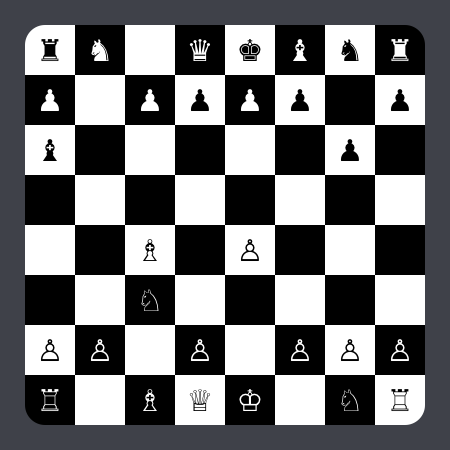
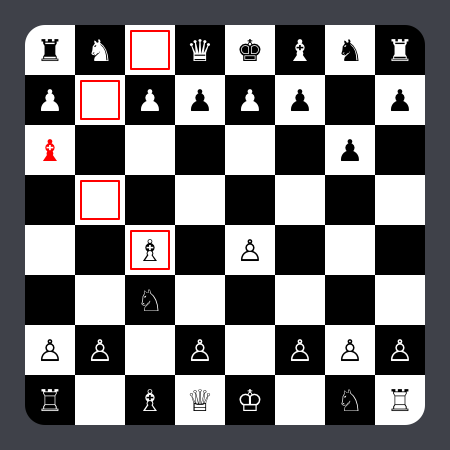
add show available

diff --git a/Gameboards.playground/Sources/Boards/Chess.swift b/Gameboards.playground/Sources/Boards/Chess.swift
@@ -58,20 +58,20 @@ public struct Chess {
         
     }
     
-    public static func validateMove(s1: Square, _ s2: Square, _ p1: Piece, _ p2: Piece, _ grid: Grid) throws {
+    public static func validateMove(s1: Square, _ s2: Square, _ p1: Piece, _ p2: Piece, _ grid: Grid, _ hint: Bool = false) throws {
         
         let mRow = s2.0 - s1.0
         let mCol = s2.1 - s1.1
         
-        let d1 = mRow == 0 ? 0 : mRow > 0 ? 1 : -1
-        let d2 = mCol == 0 ? 0 : mCol > 0 ? 1 : -1
+//        let dR = mRow == 0 ? 0 : mRow > 0 ? 1 : -1
+//        let dC = mCol == 0 ? 0 : mCol > 0 ? 1 : -1
         
         switch PieceType(rawValue: p1) ?? .None {
             
         case .Bishop1, .Bishop2:
             
-            try validateEmptyPath(s1, s2, grid)
             guard abs(mRow) == abs(mCol) else { throw MoveError.InvalidMove }
+            try validateEmptyPath(s1, s2, grid)
             
         case .King1, .King2:
             
@@ -79,34 +79,35 @@ public struct Chess {
             
         case .Knight1, .Knight2:
             
-            guard let piece = grid[s1.0 + d1,s1.1 + d2] as? Piece where piece == "" else { throw MoveError.BlockedMove }
             guard (abs(mRow) == 2 && abs(mCol) == 1) || (abs(mRow) == 1 && abs(mCol) == 2) else { throw MoveError.InvalidMove }
             
         case .Pawn1:
             
-            try validateEmptyPath(s1, s2, grid)
             guard abs(mCol) == 0 || (abs(mCol) == 1 && mRow == 1 && p2 != "") else { throw MoveError.InvalidMove }
-            guard mRow < 2 || (s1.0 == 1 && mRow == 2) else { throw MoveError.InvalidMove }
+            guard (mRow < 2 && mRow > 0) || (s1.0 == 1 && mRow == 2) else { throw MoveError.InvalidMove }
+            try validateEmptyPath(s1, s2, grid)
             
         case .Pawn2:
             
-            try validateEmptyPath(s1, s2, grid)
             guard abs(mCol) == 0 || (abs(mCol) == 1 && mRow == -1 && p2 != "") else { throw MoveError.InvalidMove }
-            guard mRow > -2 || (s1.0 == 6 && mRow == -2) else { throw MoveError.InvalidMove }
+            guard (mRow > -2 && mRow < 0) || (s1.0 == 6 && mRow == -2) else { throw MoveError.InvalidMove }
+            try validateEmptyPath(s1, s2, grid)
             
         case .Queen1, .Queen2:
             
-            try validateEmptyPath(s1, s2, grid)
             guard mRow == 0 || mCol == 0 || abs(mRow) == abs(mCol) else { throw MoveError.InvalidMove }
+            try validateEmptyPath(s1, s2, grid)
             
         case .Rook1, .Rook2:
             
-            try validateEmptyPath(s1, s2, grid)
             guard mRow == 0 || mCol == 0 else { throw MoveError.InvalidMove }
+            try validateEmptyPath(s1, s2, grid)
             
         case .None: throw MoveError.IncorrectPiece
             
         }
+        
+        guard !hint else { return }
         
         grid[s2.0,s2.1] = p1 // place my piece in target square
         grid[s1.0,s1.1] = "" // remove my piece from original square

diff --git a/Gameboards.playground/Sources/Core/Grid.swift b/Gameboards.playground/Sources/Core/Grid.swift
@@ -5,7 +5,7 @@ public class Grid {
     public var content: [[AnyObject]]
     
     public var rowRange: Range<Int> { return 0..<content.count }
-    public var colRange: Range<Int> { return 0..<content[0].count }
+    public var colRange: Range<Int> { return content.count > 0 ? 0..<content[0].count : 0..<0 }
     
     public init(_ content: [[AnyObject]]) {
         
@@ -27,27 +27,17 @@ public class Grid {
             
             for (c,item) in row.enumerate() {
                 
-                let label = UILabel(frame: CGRect(x: c * w, y: r * h, width: w, height: h))
+                let label = HintLabel(frame: CGRect(x: c * w, y: r * h, width: w, height: h))
                 
                 label.backgroundColor = (c + r) % 2 == 0 ? UIColor.whiteColor() : UIColor.blackColor()
                 label.textColor = (c + r) % 2 == 0 ? UIColor.blackColor() : UIColor.whiteColor()
                 
+                if let selected = selected where selected.0 == r && selected.1 == c { label.textColor = UIColor.redColor() }
+                for highlight in highlights { label.highlight = label.highlight ? true : highlight.0 == r && highlight.1 == c }
+                
                 label.text = "\(item)"
                 label.textAlignment = .Center
                 label.font = UIFont(name: "HelveticaNeue-Thin", size: (w + h) / 2 - 10)
-                
-                for highlight in highlights {
-                    
-                    guard highlight.0 == r && highlight.1 == c else { continue }
-                    label.backgroundColor = UIColor.magentaColor()
-                    
-                }
-                
-                if let selected = selected where selected.0 == r && selected.1 == c {
-                    
-                    label.backgroundColor = UIColor.cyanColor()
-                
-                }
                 
                 view.addSubview(label)
                 

diff --git a/Gameboards.playground/Sources/Boards/Checkers.swift b/Gameboards.playground/Sources/Boards/Checkers.swift
@@ -19,7 +19,7 @@ public struct Checkers {
     
     public static let playerPieces = ["◎","◉"]
     
-    public static func validateJump(s1: Square, _ s2: Square, _ p1: Piece, _ p2: Piece, _ grid: Grid) -> Bool {
+    public static func validateJump(s1: Square, _ s2: Square, _ p1: Piece, _ p2: Piece, _ grid: Grid, _ hint: Bool = false) -> Bool {
         
         let m1 = s2.0 - s1.0
         let m2 = s2.1 - s1.1
@@ -32,19 +32,23 @@ public struct Checkers {
         guard let piece2 = grid[e1,e2] as? String else { return false }
         guard piece2 != "" && piece1 != piece2 else { return false }
         
+        guard !hint else { return true }
+        
         grid[e1,e2] = "" // remove other player piece
         
         return true
         
     }
     
-    public static func validateMove(s1: Square, _ s2: Square, _ p1: Piece, _ p2: Piece, _ grid: Grid) throws {
+    public static func validateMove(s1: Square, _ s2: Square, _ p1: Piece, _ p2: Piece, _ grid: Grid, _ hint: Bool = false) throws {
         
         let m1 = s2.0 - s1.0
         let m2 = s2.1 - s1.1
         
         guard p2 == "" else { throw MoveError.InvalidMove }
-        guard (abs(m1) == 1 && abs(m2) == 1) || validateJump(s1, s2, p1, p2, grid) else { throw MoveError.InvalidMove }
+        guard (abs(m1) == 1 && abs(m2) == 1) || validateJump(s1, s2, p1, p2, grid, hint) else { throw MoveError.InvalidMove }
+        
+        guard !hint else { return }
         
         grid[s2.0,s2.1] = p1 // place my piece in target square
         grid[s1.0,s1.1] = "" // remove my piece from original square

diff --git a/Gameboards.playground/Sources/Helper.swift b/Gameboards.playground/Sources/Helper.swift
@@ -2,19 +2,35 @@ import UIKit
 
 extension Gameboard {
     
-    
-    public func showAvailable(s1: Square) {
+    public mutating func showAvailable(s1: Square) {
         
-//        switch _type {
-//            
-//        case .Checkers:
-//        case .Chess:
-//            
-//        }
+        highlights = []
+        
+        switch _type {
+            
+        case .Backgammon, .Go, .Mancala, .Minesweeper, .Sudoku, .TicTacToe: break
+            
+        case .Chess, .Checkers:
+            
+            selected = s1
+            
+            for r in grid.rowRange {
+                
+                for c in grid.colRange {
+                    
+                    guard let _ = try? validateMove(s1, (r,c), true) else { continue }
+                    print((r,c))
+                    highlights.append((r,c))
+                    
+                }
+                
+            }
+            
+        }
         
     }
     
-    public func showAvailable(s1: ChessSquare) {
+    public mutating func showAvailable(s1: ChessSquare) {
         
         let cols: [String] = "abcdefgh".characters.map { "\($0)" }
         guard let c1 = cols.indexOf(s1.0) else { return }

diff --git a/Gameboards.playground/Sources/Validation.swift b/Gameboards.playground/Sources/Validation.swift
@@ -34,6 +34,13 @@ public enum GameStatus: ErrorType {
     
 }
 
+public enum FunctionalityError: ErrorType {
+    
+    /// Can't do this... maybe a future feature if you bug me enough.
+    case Unavailable
+    
+}
+
 extension Gameboard {
     
     func validateNotFriendlyFire(p1: Piece, _ p2: Piece) throws -> Bool {
@@ -125,7 +132,7 @@ extension Gameboard {
         
     }
     
-    func validateMove(s1: Square, _ s2: Square) throws {
+    func validateMove(s1: Square, _ s2: Square, _ hint: Bool = false) throws {
         
         guard grid.onBoard(s1, s2) else { throw MoveError.OutOfBounds }
         
@@ -137,8 +144,8 @@ extension Gameboard {
         
         switch _type {
             
-        case .Checkers: try Checkers.validateMove(s1, s2, p1, p2, grid)
-        case .Chess: try Chess.validateMove(s1, s2, p1, p2, grid)
+        case .Checkers: try Checkers.validateMove(s1, s2, p1, p2, grid, hint)
+        case .Chess: try Chess.validateMove(s1, s2, p1, p2, grid, hint)
         case .Backgammon, .Go, .Mancala, .Minesweeper, .Sudoku, .TicTacToe: throw MoveError.IncorrectPiece
             
         }

diff --git a/Gameboards.playground/Sources/Core/Views/HintLabel.swift b/Gameboards.playground/Sources/Core/Views/HintLabel.swift
@@ -1,0 +1,25 @@
+import UIKit
+
+class HintLabel: UILabel {
+    
+    var highlight: Bool = false { didSet { setNeedsDisplay() } }
+    
+    override func drawTextInRect(rect: CGRect) {
+        
+        guard highlight else { return super.drawTextInRect(rect) }
+        
+        let ctx = UIGraphicsGetCurrentContext()
+        
+        UIColor.redColor().set()
+        
+        CGContextSetLineJoin(ctx, .Round)
+        CGContextSetLineWidth(ctx, 1)
+        
+        CGContextStrokeRect(ctx, CGRectInset(rect, 3, 3))
+        
+        super.drawTextInRect(rect)
+        
+    }
+    
+}
+

diff --git a/Gameboards.playground/Sources/Gameboard.swift b/Gameboards.playground/Sources/Gameboard.swift
@@ -55,7 +55,7 @@ public struct Gameboard {
     
     public mutating func move(pieceAt s1: Square, toSquare s2: Square) throws -> Piece? {
         
-        try validateMove(s1, s2)
+        try validateMove(s1,s2)
         
         let piece2 = grid[s2.0,s2.1]
         
@@ -101,7 +101,10 @@ public struct Gameboard {
             grid = Chess.board
             playerPieces = Chess.playerPieces
             
-        case .Go: break
+        case .Go:
+            
+            grid = Go.board
+            playerPieces = Go.playerPieces
             
         case .Mancala: break
             

diff --git a/Gameboards.playground/Sources/Boards/Go.swift b/Gameboards.playground/Sources/Boards/Go.swift
@@ -6,10 +6,13 @@ public struct Go {
     
     public static let playerPieces = ["●1","●2"]
     
-    public static func validateMove(s1: Square, _ grid: Grid) throws {
+    public static func validateMove(s1: Square, _ grid: Grid, _ player1: Bool) throws {
+        
+        // validate if playable
         
         // current player
-//        grid[s1.0,s1.1] = // place my piece in target square
+        let player = player1 ? 0 : 1
+        grid[s1.0,s1.1] = playerPieces[player]
         
     }
     

diff --git a/Gameboards.playground/Sources/Boards/Sudoku.swift b/Gameboards.playground/Sources/Boards/Sudoku.swift
@@ -66,9 +66,9 @@ public struct Sudoku {
         
         let newGrid = Grid(9 ✕ (9 ✕ ""))
         
-        for r in 0...8 {
+        for r in newGrid.rowRange {
             
-            for c in 0...8 {
+            for c in newGrid.colRange {
                 
                 newGrid[c,r] = grid[r,c]
                 

diff --git a/Gameboards.playground/Pages/Chess.xcplaygroundpage/Contents.swift b/Gameboards.playground/Pages/Chess.xcplaygroundpage/Contents.swift
@@ -16,6 +16,7 @@ let moves: [(ChessSquare,ChessSquare)] = [
     (F1,C4), // bishop take pawn
     (A6,D3), // blocked move throws error
     
+    
 ]
 
 // loop moves
@@ -33,6 +34,8 @@ for move in moves {
     }
     
 }
+
+chess.showAvailable(A6)
 
 chess.visualize()
 

diff --git a/Gameboards.playground/Pages/Minesweeper.xcplaygroundpage/Contents.swift b/Gameboards.playground/Pages/Minesweeper.xcplaygroundpage/Contents.swift
@@ -20,7 +20,7 @@ let guesses: [(Square,MoveType)] = [
     
 ]
 
-// loop moves
+// loop guesses
 
 for guess in guesses {
     

diff --git a/Gameboards.playground/Pages/Sudoku.xcplaygroundpage/Contents.swift b/Gameboards.playground/Pages/Sudoku.xcplaygroundpage/Contents.swift
@@ -19,7 +19,7 @@ let guesses: [(Square,Guess)] = [
     
 ]
 
-// loop moves
+// loop guesses
 
 for guess in guesses {
     
